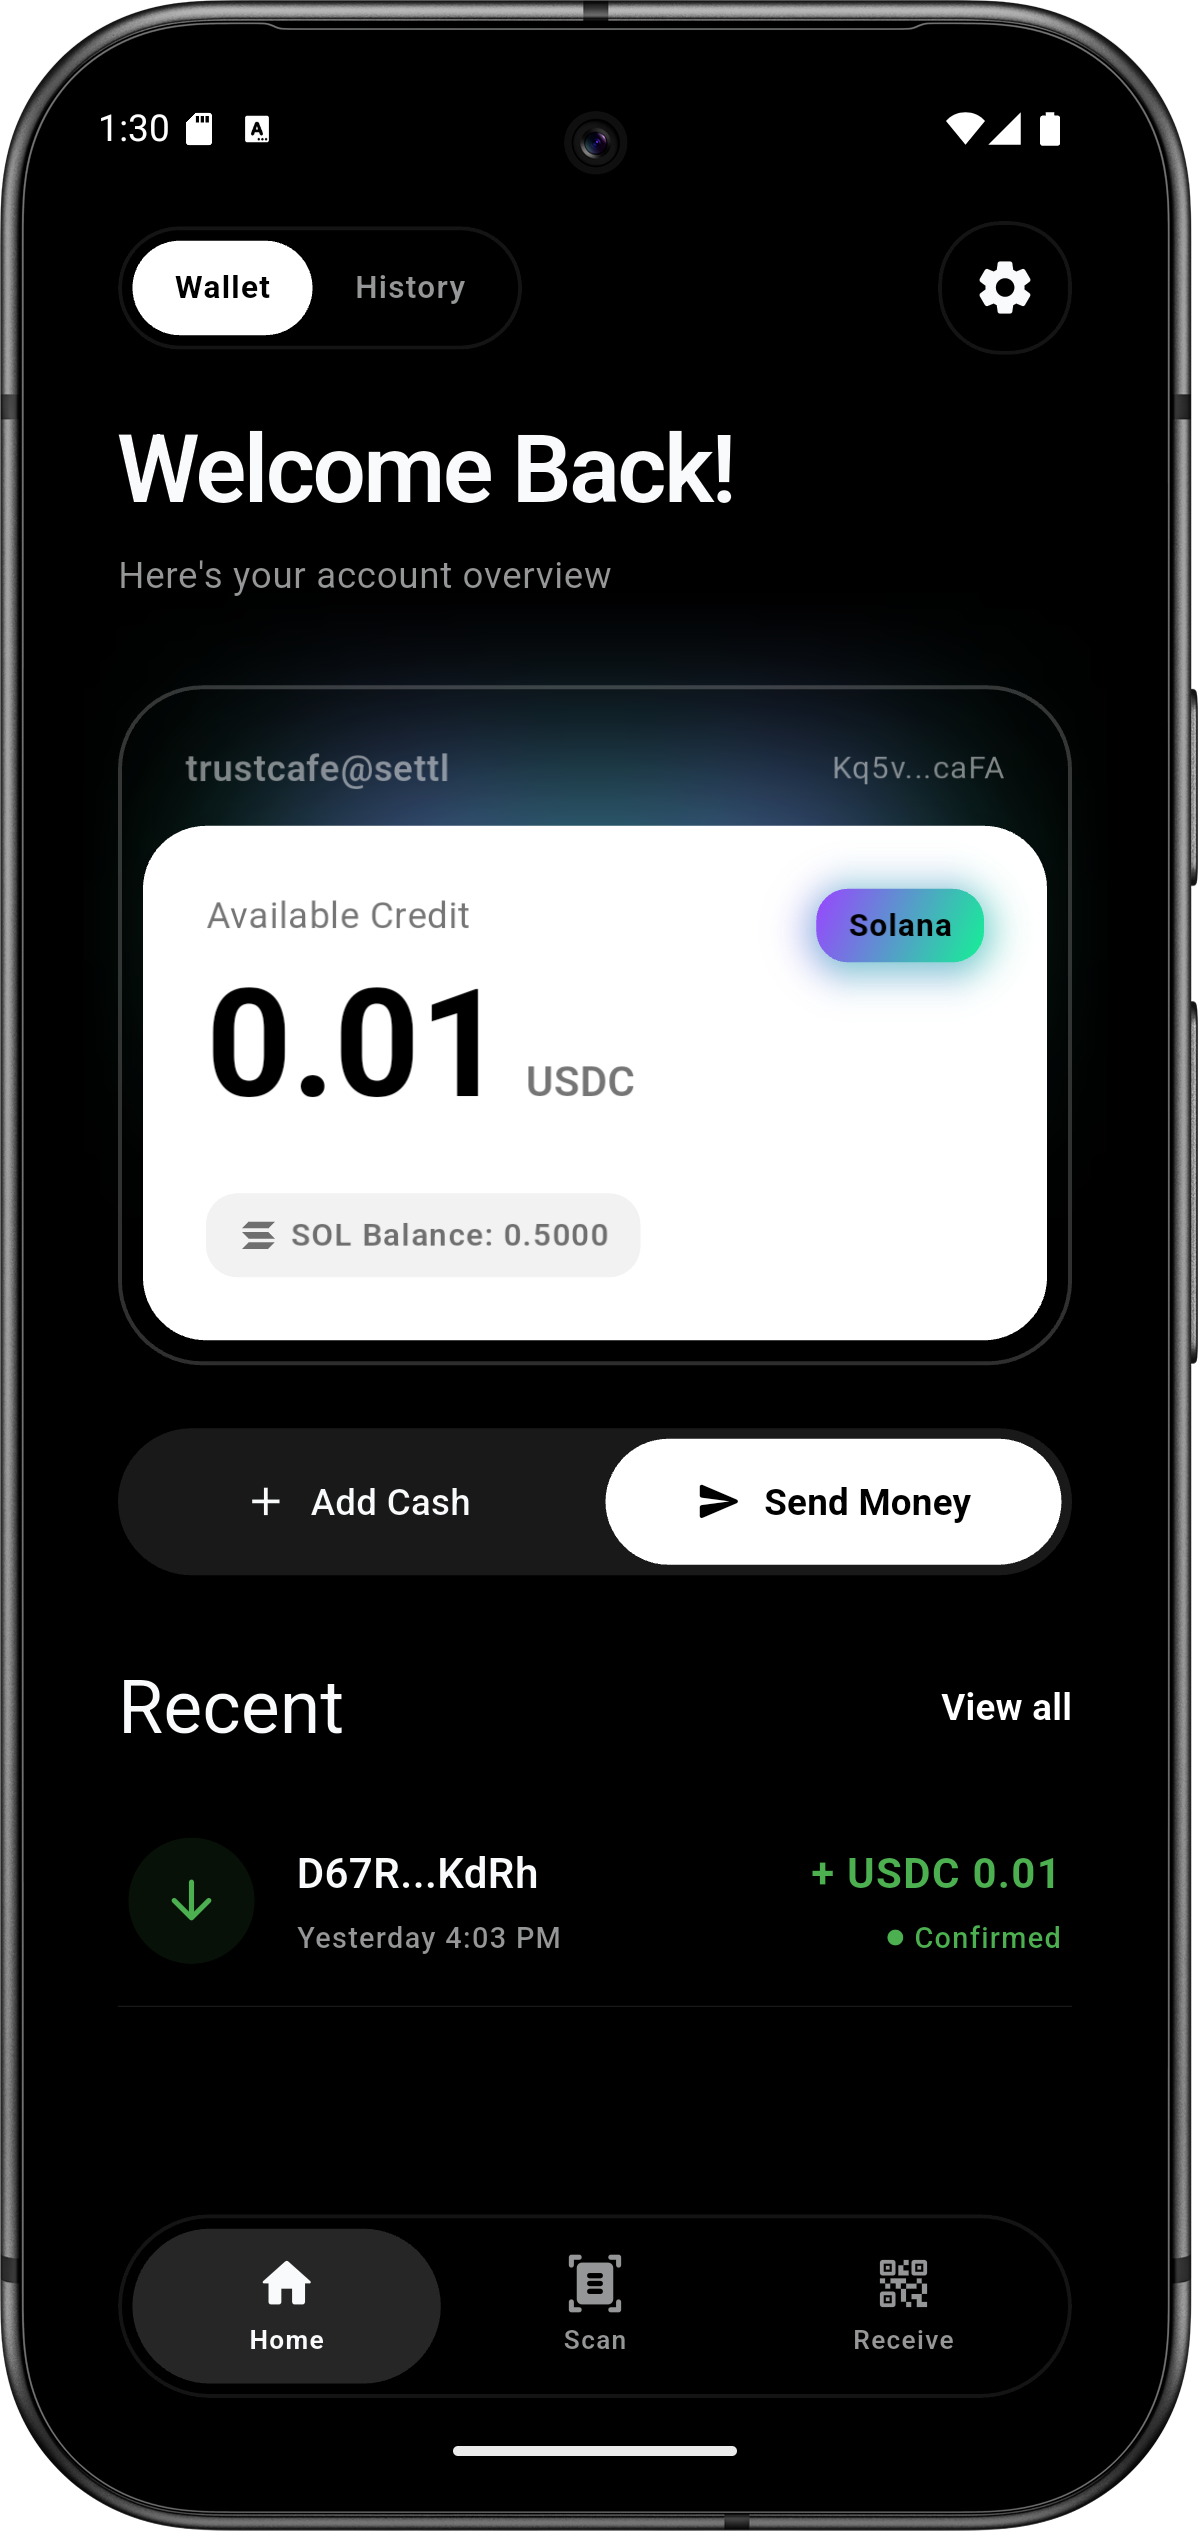
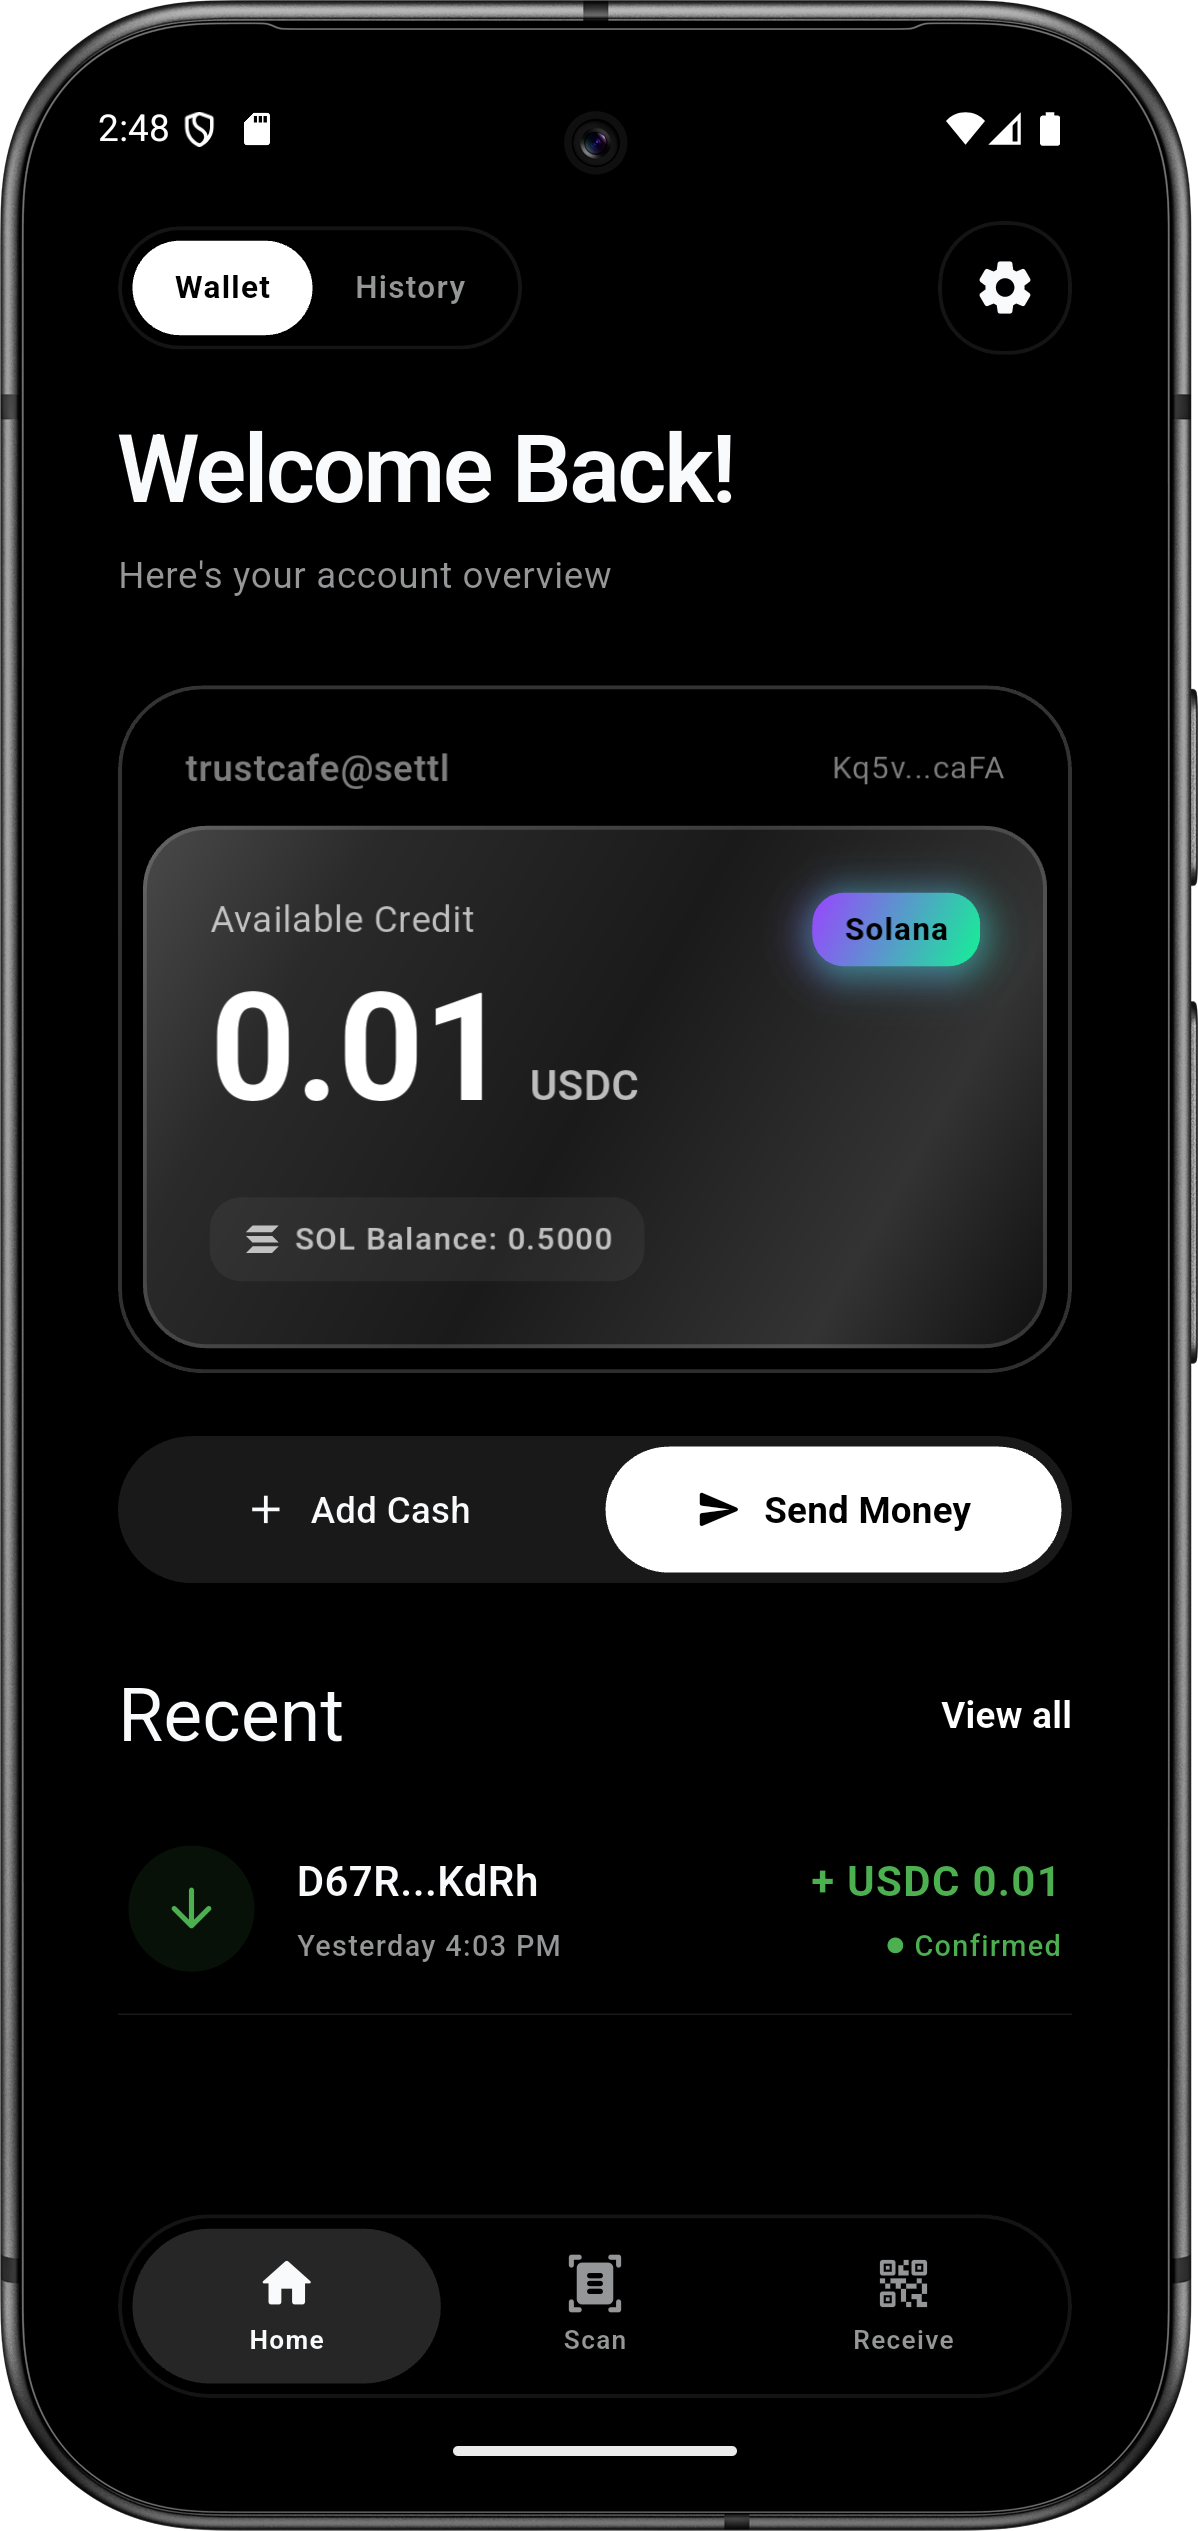
Refresh wallet balance card styling
This update redesigns the wallet balance card with a richer gradient and border treatment for light and dark themes, while improving contrast and shimmer behavior for consistency. It also removes obsolete scratch/debug scripts that were only used during local experimentation and updates the home screenshots to match the new UI.

diff --git a/lib/features/wallet/widgets/balance_card.dart b/lib/features/wallet/widgets/balance_card.dart
@@ -70,9 +70,38 @@ class _BalanceCardState extends ConsumerState<BalanceCard> {
   @override
   Widget build(BuildContext context) {
     final isDark = context.isDarkMode;
-    final innerCardColor = isDark ? Colors.white : Colors.black;
-    final innerTextColor = isDark ? Colors.black : Colors.white;
-    final innerMutedColor = isDark ? Colors.black54 : Colors.white54;
+    
+    final innerCardGradient = isDark
+        ? const LinearGradient(
+            begin: Alignment.topLeft,
+            end: Alignment.bottomRight,
+            stops: [0.0, 0.2, 0.5, 0.8, 1.0],
+            colors: [
+              Color(0xFF4A4A4A), // Lighter metallic edge
+              Color(0xFF2A2A2A), // Dark metallic body
+              Color(0xFF1A1A1A), // Darker center
+              Color(0xFF333333), // Reflection
+              Color(0xFF0F0F0F), // Dark edge
+            ],
+          )
+        : const LinearGradient(
+            begin: Alignment.topLeft,
+            end: Alignment.bottomRight,
+            stops: [0.0, 0.2, 0.5, 0.8, 1.0],
+            colors: [
+              Color(0xFFFFFFFF), // Pure white edge
+              Color(0xFFE0E0E0), // Light silver
+              Color(0xFFF5F5F5), // Reflection
+              Color(0xFFD6D6D6), // Silver
+              Color(0xFFEEEEEE), // Edge
+            ],
+          );
+
+    final innerCardBorder = isDark 
+        ? Border.all(color: Colors.white.withValues(alpha: 0.15), width: 1.5)
+        : Border.all(color: Colors.white, width: 2);
+    final innerTextColor = isDark ? Colors.white : Colors.black;
+    final innerMutedColor = isDark ? Colors.white70 : Colors.black87;
 
     return GestureDetector(
       onTapDown: (details) => _updateTilt(details.globalPosition),
@@ -187,7 +216,8 @@ class _BalanceCardState extends ConsumerState<BalanceCard> {
                     // Inner card
                     Container(
                       decoration: BoxDecoration(
-                        color: innerCardColor,
+                        gradient: innerCardGradient,
+                        border: innerCardBorder,
                         borderRadius: BorderRadius.circular(24),
                         boxShadow: [
                           BoxShadow(
@@ -251,7 +281,7 @@ class _BalanceCardState extends ConsumerState<BalanceCard> {
                                 ),
                                 const SizedBox(height: 8),
                                 widget.isLoading
-                                    ? _buildShimmer(innerCardColor)
+                                    ? _buildShimmer(isDark)
                                     : Row(
                                         crossAxisAlignment: CrossAxisAlignment.end,
                                         children: [
@@ -321,12 +351,12 @@ class _BalanceCardState extends ConsumerState<BalanceCard> {
     .slideY(begin: 0.1, end: 0, duration: 300.ms, curve: Curves.easeOutCubic);
   }
 
-  Widget _buildShimmer(Color innerCardColor) {
+  Widget _buildShimmer(bool isDark) {
     return Container(
       width: 180,
       height: 48,
       decoration: BoxDecoration(
-        color: innerCardColor == Colors.black ? Colors.white24 : Colors.black12,
+        color: isDark ? Colors.white24 : Colors.black12,
         borderRadius: BorderRadius.circular(8),
       ),
     );
